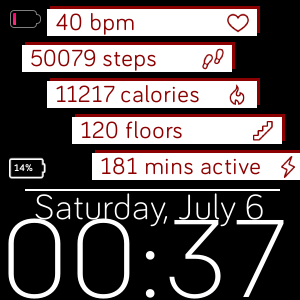
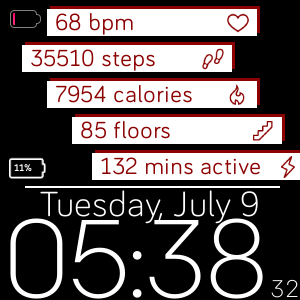
Update to 1.8 with some refactoring and 2 new tiny things

diff --git a/app/index.js b/app/index.js
@@ -6,12 +6,14 @@ import { BodyPresenceSensor } from "body-presence";
 import { display } from "display";
 import * as battery from "./battery";
 import * as util from "../common/utils";
+import * as appConstants from "../common/constants";
 
 // Update the Clockface every Second
 clock.granularity = "seconds";
 
 // Get a handle on the Document elements (Text, Image, etc)
 const mainClockTime = document.getElementById("mainClockTime");
+const mainClockSeconds = document.getElementById("mainClockSeconds");
 const mainDateTimeDay = document.getElementById("mainDateTimeDay");
 const mainHeartRate = document.getElementById("mainHeartRate");
 const heartRateGroup = document.getElementById("heartRateGroup");
@@ -21,6 +23,7 @@ const mainElevationClimbed = document.getElementById("mainElevationClimbed");
 const mainActiveTime = document.getElementById("mainActiveTime");
 const batteryDisplayText = document.getElementById("batteryDisplayText");
 const batteryIcon = document.getElementById("batteryIcon");
+const batteryGroup = document.getElementById("batteryGroup");
 
 // Set the z-Index for the Battery section
 batteryDisplayText.layer = 2;
@@ -35,9 +38,11 @@ clock.ontick = (evt) => {
   let todayDate = todayTime.getDate();
   hours = util.formatHoursDisplay(hours);
   let mins = util.zeroPad(todayTime.getMinutes());
+  let seconds = util.zeroPad(todayTime.getSeconds());
   
   // Format the Display in our Text Areas
   mainClockTime.text = `${hours}:${mins}`;
+  mainClockSeconds.text = `${seconds}`;
   mainDateTimeDay.text = `${dayOfWeek}, ${monthName} ${todayDate}`;
   mainStepsTaken.text = `${util.checkIfDigit(today.local.steps)} steps`;
   mainCaloriesBurned.text = `${util.checkIfDigit(today.local.calories)} calories`;
@@ -50,10 +55,16 @@ clock.ontick = (evt) => {
 // For the Heartrate Monitor
 let hrm = new HeartRateSensor();
 let hasHeartRateAreaBeenMoved = false;
+let wasBatteryLevelTriggered;
+let currentBatteryLevel;
+resetBatteryIcon();
 
 function doBatteryReading(){
   let batteryStats = battery.calculateBatteryPercentage();
-  let currentBatteryLevel = batteryStats.level;
+  let isDeviceCharging = batteryStats.isDeviceCharging;
+  
+  if (wasBatteryLevelTriggered) return;
+  currentBatteryLevel = batteryStats.level;
   batteryDisplayText.text = `${currentBatteryLevel}%`;
   batteryDisplayText.style.fill = `${batteryStats.color}`;
   batteryDisplayText.style.display = `${batteryStats.textDisplay}`;
@@ -61,9 +72,9 @@ function doBatteryReading(){
   batteryIcon.style.display = `${batteryStats.iconDisplay}`;
   
   // Set the top bar not to be overlapped by Fitbit's Default Bar
-  let batteryNotDisplayed = currentBatteryLevel > 17 && hasHeartRateAreaBeenMoved && !batteryStats.isDeviceCharging;
+  let batteryNotDisplayed = currentBatteryLevel >= 17 && hasHeartRateAreaBeenMoved && !isDeviceCharging;
   // Battery has to be less than 17% or charging
-  let batteryIsDisplayed = (currentBatteryLevel < 17 || batteryStats.isDeviceCharging) && !hasHeartRateAreaBeenMoved;
+  let batteryIsDisplayed = (currentBatteryLevel < 17 || isDeviceCharging) && !hasHeartRateAreaBeenMoved;
   
   if(batteryNotDisplayed){
     heartRateGroup.animate("disable");
@@ -72,6 +83,28 @@ function doBatteryReading(){
     heartRateGroup.animate("enable");
     hasHeartRateAreaBeenMoved = true;
   }
+};
+
+// Better not to waste clicks?
+batteryGroup.onclick = () => {
+  let batteryStats = battery.giveBatteryReading();
+  if (batteryStats.level <= appConstants.batteryLowPercent) return;
+  wasBatteryLevelTriggered = true;
+  batteryDisplayText.text = `${batteryStats.level}%`;
+  batteryDisplayText.style.fill = `${batteryStats.color}`;
+  batteryDisplayText.style.display = `${batteryStats.textDisplay}`;
+  batteryIcon.href = `${batteryStats.iconToUse}`;
+  batteryIcon.style.display = `${batteryStats.iconDisplay}`;
+
+  setTimeout(function(){
+    doBatteryReading();
+    resetBatteryIcon();
+  }, batteryStats.batteryTimeout);
+};
+
+function resetBatteryIcon(){
+  wasBatteryLevelTriggered = false;
+  currentBatteryLevel = 0;
 };
 
 // Recgonize if user has the Device equipped
@@ -89,7 +122,7 @@ body.onreading = () => {
 body.start();
 
 // Still not sure what to do with this HR Section
-hrm.onreading = function () {
+hrm.onreading = () => {
   let currentHeartRate = util.checkIfDigit(hrm.heartRate);
   mainHeartRate.text = `${currentHeartRate} bpm`;
 };

diff --git a/app/battery.js b/app/battery.js
@@ -3,7 +3,7 @@ import { charger } from "power";
 import * as appConstants from "../common/constants";
 
 const appSettings = appConstants.globalAppSettings;
-const batteryLowPercent = 20;
+const batteryLowPercent = appConstants.batteryLowPercent;
 
 export function calculateBatteryPercentage(){
   // Disconnected is not charging
@@ -63,3 +63,14 @@ export function determineBatteryIcon(){
   
   return imageFolderPath + batteryIconType + imageFileType;
 }
+
+export function giveBatteryReading(){
+  return {
+    level: battery.chargeLevel,
+    color: appSettings.mainTextColor,
+    textDisplay: "inline",
+    iconDisplay: "inline",
+    iconToUse: "icons/battery-0.png",
+    batteryTimeout: appConstants.batteryTimeout,
+  };
+};

diff --git a/resources/styles.css b/resources/styles.css
@@ -5,9 +5,19 @@
 #mainClockTime {
   font-size: 110;
   font-family: Colfax-Light;
+  letter-spacing: -7;
   text-length: 10;
   text-anchor: middle;
-  x: 50%;
+  x: 47%;
+  y: 99%;
+}
+
+#mainClockSeconds{
+  font-size: 24;
+  font-family: Colfax-Light;
+  text-length: 3;
+  text-anchor: middle;
+  x: 95%;
   y: 99%;
 }
 
@@ -17,7 +27,7 @@
   text-length: 30;
   text-anchor: middle;
   x: 50%;
-  y: 73%;
+  y: 72%;
 }
 
 .mainText{
@@ -28,7 +38,7 @@
   height: 2;
   width: 85%;
   x:25;
-  y:63%;
+  y:62%;
 }
 
 /* General Formatting for Top Sections */

diff --git a/common/constants.js b/common/constants.js
@@ -3,3 +3,6 @@ export const globalAppSettings = {
   subTextColor: `darkred`,
   backgroundColor: `black`
 };
+
+export const batteryTimeout = 2000;
+export const batteryLowPercent = 20;

diff --git a/README.md b/README.md
@@ -8,6 +8,11 @@ Still learning how to do these things, and need to get way better at HTML+CSS de
 If you'd like to install the watchface for yourself, you can use the [gallery link here](https://gam.fitbit.com/gallery/clock/54750558-52f6-49c5-9d0d-8f1ffa509a6d)!
 
 ### Version Changelog  
+#### 1.8.0 - 7/9/19  
+- Add seconds to the bottom right for timing
+- Add a Battery Percentage display when clicking on battery icon
+- Insanity late night refactoring...
+
 #### 1.7.1 - 7/6/19  
 - Forgot to use colons on an object in battery.js file...
 
@@ -37,13 +42,15 @@ If you'd like to install the watchface for yourself, you can use the [gallery li
 ### ToDos For Later:
 - Add in animation when clicking watch face (maybe to display user goals and get overall battery %?)
 - Add in Goal % compared to specific white bar lengths
-- Make refresh less taxing on application
-- More code modularity for various sections
-- Display better on Ionic Devices
+- Make refresh less taxing on application/rendering
 - ~Handle any undefined errors if networking stuff goes down like on 7/2/19~
 - ~Hide Battery display if device is charging state and do not trigger animation~
 - ~~Add in animation when top bpm bar moves~~
 - ~~Make the text larger more areas proportionately~~
+
+### Stretch Goals:
+- Display better on Ionic Devices
+- More code modularity for various sections
 
 ### Credits:
 - Fitbit Team's Design Assets - https://github.com/Fitbit/sdk-design-assets
